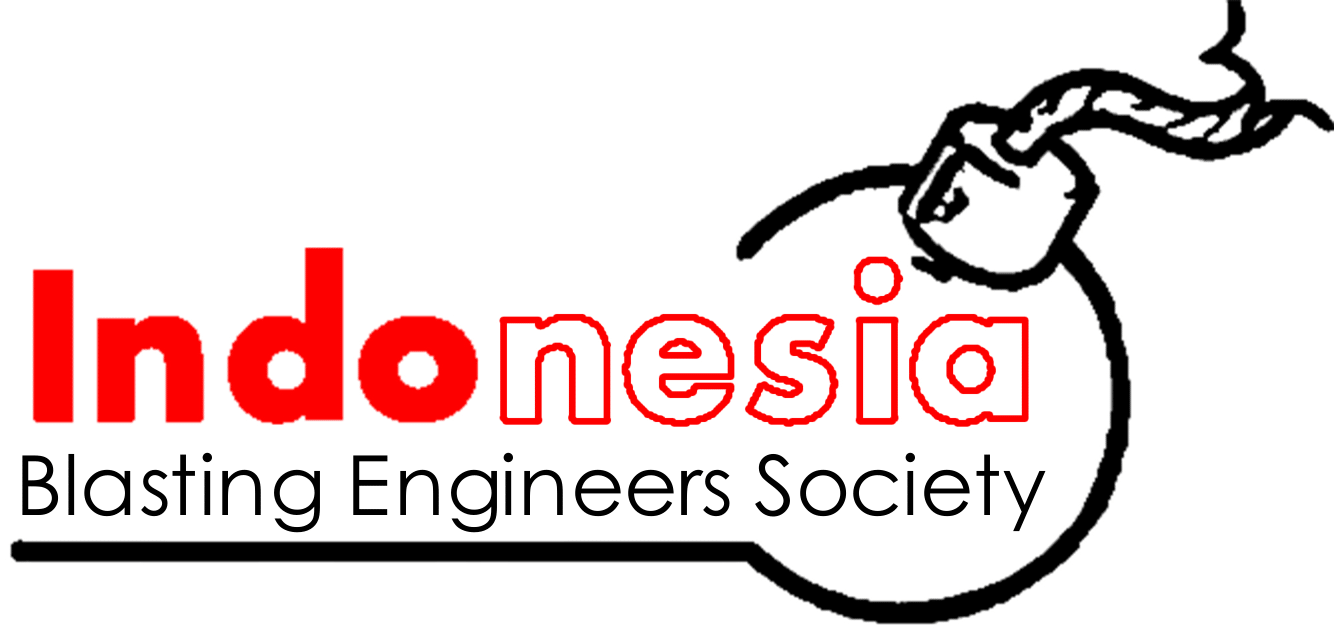
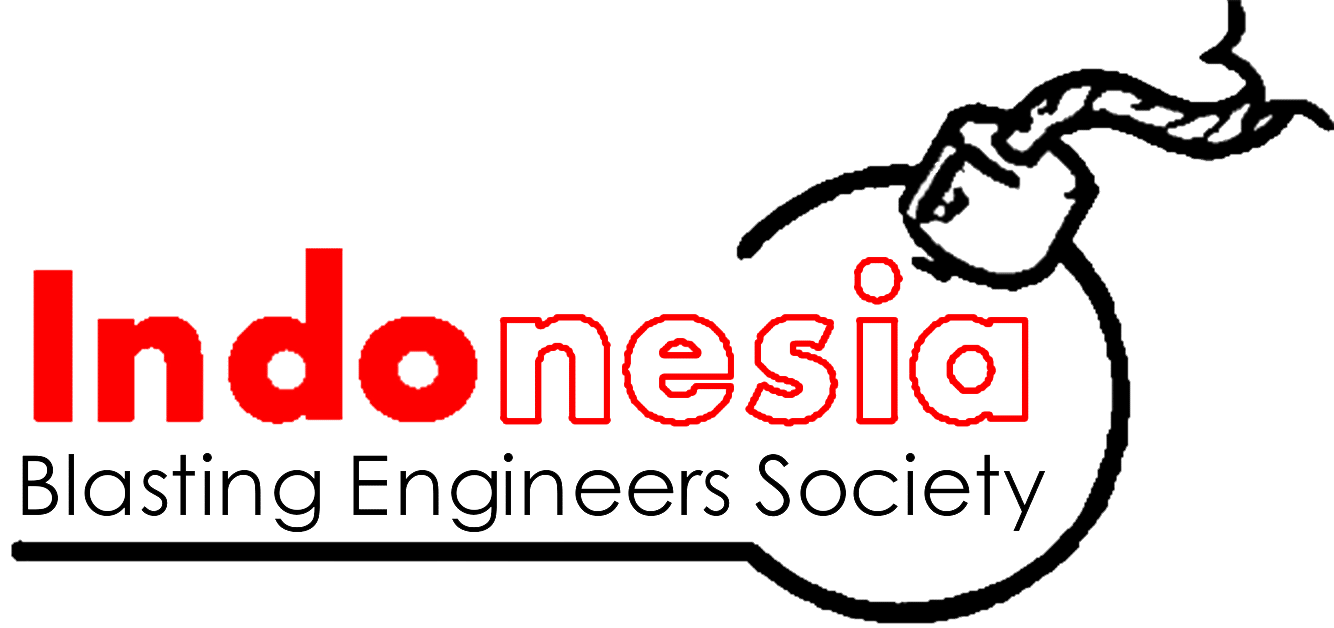
mod: Image to Transparent

diff --git a/app/(index)/partnership/page.tsx b/app/(index)/partnership/page.tsx
@@ -24,7 +24,7 @@ function page() {
               alt="MAA"
               width={1600}
               height={1200}
-              className="h-[10rem] object-center w-full object-contain bg-white rounded-xl"
+              className="h-[10rem] object-center w-full object-contain  rounded-xl"
             />
             <div className="flex justify-center gap-6 items-center flex-wrap">
               <img
@@ -39,7 +39,7 @@ function page() {
                 width={2615}
                 height={1177}
                 alt="orica"
-                className="w-auto md:h-[10rem] h-[6rem] object-contain bg-white rounded-xl"
+                className="w-auto md:h-[10rem] h-[6rem] object-contain  rounded-xl"
               />
             </div>
             <div className="flex items-center">
@@ -60,21 +60,21 @@ function page() {
                 className="sm:h-[5rem] h-[3rem] rounded-lg max-w-[15rem] object-contain"
               />
               <img
-                src="/sponsor/M/aptekindo.jpg"
+                src="/sponsor/M/aptekindo.png"
                 width={1455}
                 height={717}
                 alt="Aptekindo"
                 className="sm:h-[5rem] h-[3rem] rounded-lg w-auto object-contain"
               />
               <img
-                src="/sponsor/M/mifa.jpg"
+                src="/sponsor/M/mifa.png"
                 width={1294}
                 height={527}
                 alt="Mifa"
                 className="sm:h-[5rem] h-[3rem] rounded-lg w-auto object-contain"
               />
               <img
-                src="/sponsor/M/ptar.jpg"
+                src="/sponsor/M/ptar.png"
                 width={1250}
                 height={1005}
                 alt="PTAR"
@@ -83,18 +83,18 @@ function page() {
             </div>
             <div className="flex justify-center sm:gap-6 gap-3 items-center flex-wrap">
               <img
-                src="/sponsor/S/antam.jpg"
+                src="/sponsor/S/antam.png"
                 width={2537}
                 height={933}
                 alt="antam"
                 className="sm:h-[3rem] h-[2rem] w-auto object-contain rounded-lg"
               />
               <img
-                src="/sponsor/S/aldzama.jpg"
+                src="/sponsor/S/aldzama.png"
                 width={1280}
                 height={647}
                 alt="Aldzama"
-                className="sm:h-[3rem] h-[2rem] w-auto object-contain p-2 bg-white rounded-lg"
+                className="sm:h-[3rem] h-[2rem] w-auto object-contain p-2  rounded-lg"
               />
               <img
                 src="/sponsor/S/BSSR.png"
@@ -104,18 +104,18 @@ function page() {
                 className="sm:h-[3rem] h-[2rem] w-auto object-contain"
               />
               <img
-                src="/sponsor/S/dyno.jpg"
+                src="/sponsor/S/dyno.png"
                 width={1500}
                 height={1250}
                 alt="DYNO"
-                className="sm:h-[3rem] h-[2rem] w-auto object-contain p-2 bg-white rounded-lg"
+                className="sm:h-[3rem] h-[2rem] w-auto object-contain p-2  rounded-lg"
               />
               <img
-                src="/sponsor/S/pertamina_ep.jpg"
+                src="/sponsor/S/pertamina_ep.png"
                 width={1024}
                 height={208}
                 alt="Pertamina EP"
-                className="sm:h-[3rem] h-[2rem] w-auto object-contain p-2 bg-white rounded-lg"
+                className="sm:h-[3rem] h-[2rem] w-auto object-contain p-2  rounded-lg"
               />
               <img
                 src="/sponsor/S/gmb.png"
@@ -125,11 +125,11 @@ function page() {
                 className="sm:h-[3rem] h-[2rem] w-auto object-contain"
               />
               <img
-                src="/sponsor/S/geomine.jpg"
+                src="/sponsor/S/geomine.png"
                 width={400}
                 height={79}
                 alt="geomine"
-                className="sm:h-[3rem] h-[2rem] w-auto object-contain p-2 bg-white rounded-lg"
+                className="sm:h-[3rem] h-[2rem] w-auto object-contain p-2  rounded-lg"
               />
               <img
                 src="/sponsor/S/harita.png"
@@ -139,11 +139,11 @@ function page() {
                 className="sm:h-[3rem] h-[2rem] w-auto object-contain"
               />
               <img
-                src="/sponsor/S/pama.jpg"
+                src="/sponsor/S/pama.png"
                 width={1277}
                 height={500}
                 alt="Pama"
-                className="sm:h-[3rem] h-[2rem] w-auto object-contain p-2 bg-white rounded-lg"
+                className="sm:h-[3rem] h-[2rem] w-auto object-contain p-2  rounded-lg"
               />
               <img
                 src="/sponsor/S/powerchem.png"
@@ -188,7 +188,7 @@ function page() {
                 className="sm:h-[3rem] h-[2rem] rounded-lg w-auto object-contain"
               />
               <Image
-                src="/media/dunia_tambang.jpg"
+                src="/media/dunia_tambang.png"
                 width={554}
                 height={554}
                 alt="dunia_tambang"
@@ -223,14 +223,14 @@ function page() {
                 className="sm:h-[3rem] h-[2rem] rounded-lg w-auto object-contain"
               />
               <Image
-                src="/media/media_tambang.jpg"
+                src="/media/media_tambang.png"
                 width={1080}
                 height={1080}
                 alt="media_tambang"
                 className="sm:h-[3rem] h-[2rem] rounded-lg w-auto object-contain"
               />
               <Image
-                src="/media/update_lomba_id.jpg"
+                src="/media/update_lomba_id.png"
                 width={2272}
                 height={1230}
                 alt="update_lomba_id"
